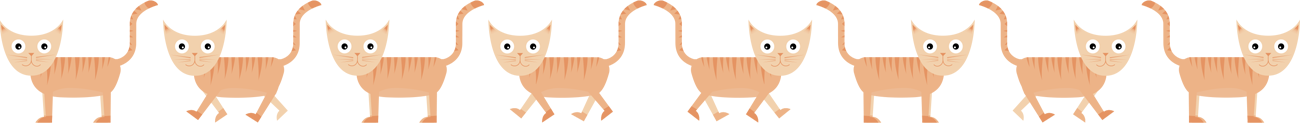
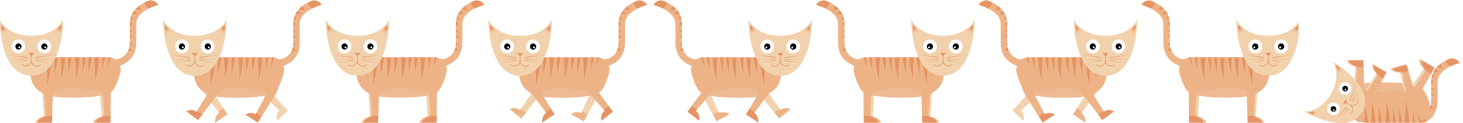
demo: Add new cat sprite for backpack mode

diff --git a/demo/js/house.js b/demo/js/house.js
@@ -457,6 +457,7 @@
         that.expandShrinkBackpack = function() {
             console.log("hello mike how are you");
             if (!that.expandBool) {
+                that.cat.frame = 8;
                 that.decoySprite.visible = true;
                 that.travelBackpackList(true);
                 that.expandBool = true;
@@ -473,6 +474,7 @@
                 that.left.onDown.add(that.changeSelectionBackpackLeft, that);
                 that.enter.onDown.add(that.acceptSelectionBackpack, that);
             } else {
+                that.cat.frame = 5;
                 that.decoySprite.visible = false;
                 that.travelBackpackList(false);
                 that.expandBool = false;

diff --git a/demo/js/Preload.js b/demo/js/Preload.js
@@ -117,7 +117,7 @@
     };
 
     demo.state.Preload.create = function(game) {
-        game.state.start("langPref");
+        game.state.start("prelude");
     };
 
     demo.state.Preload.update = function() {
